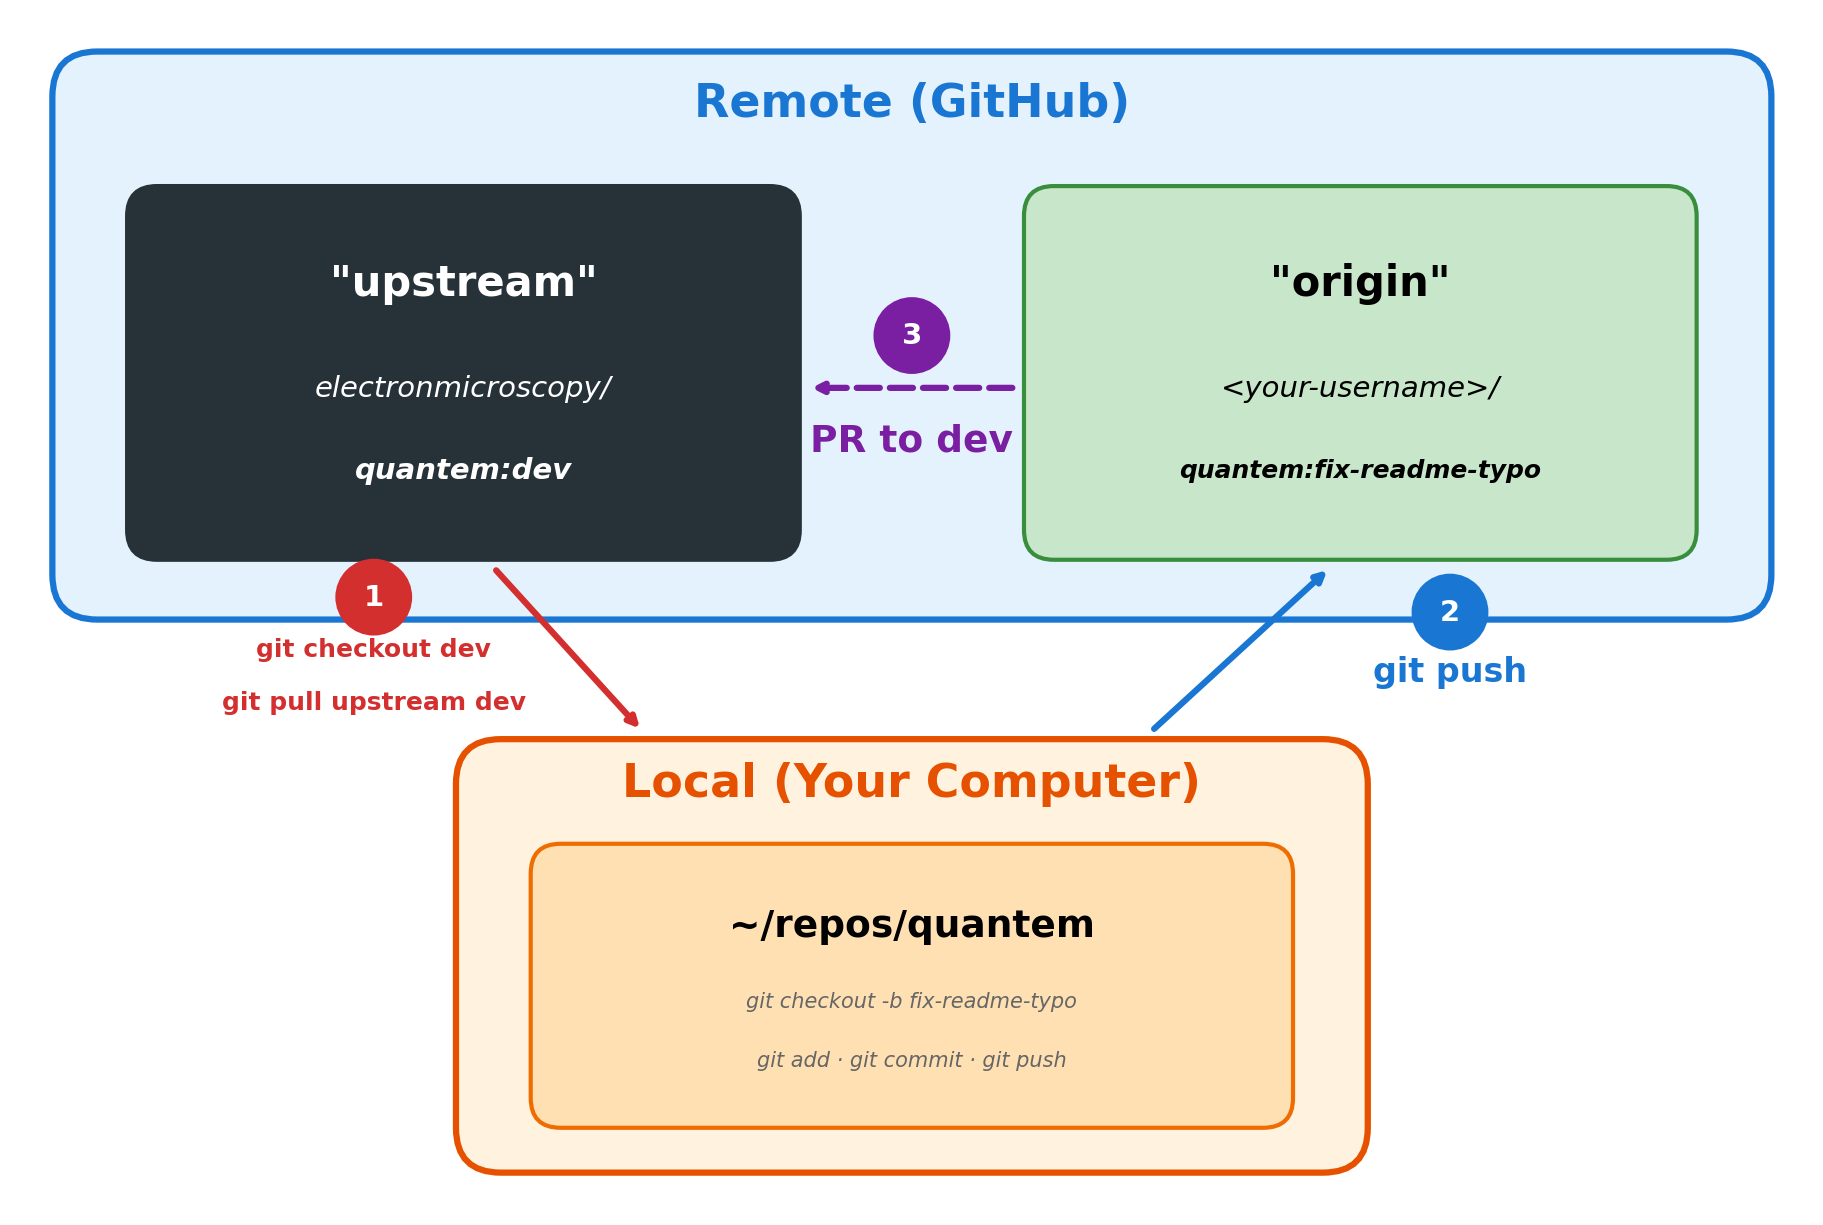
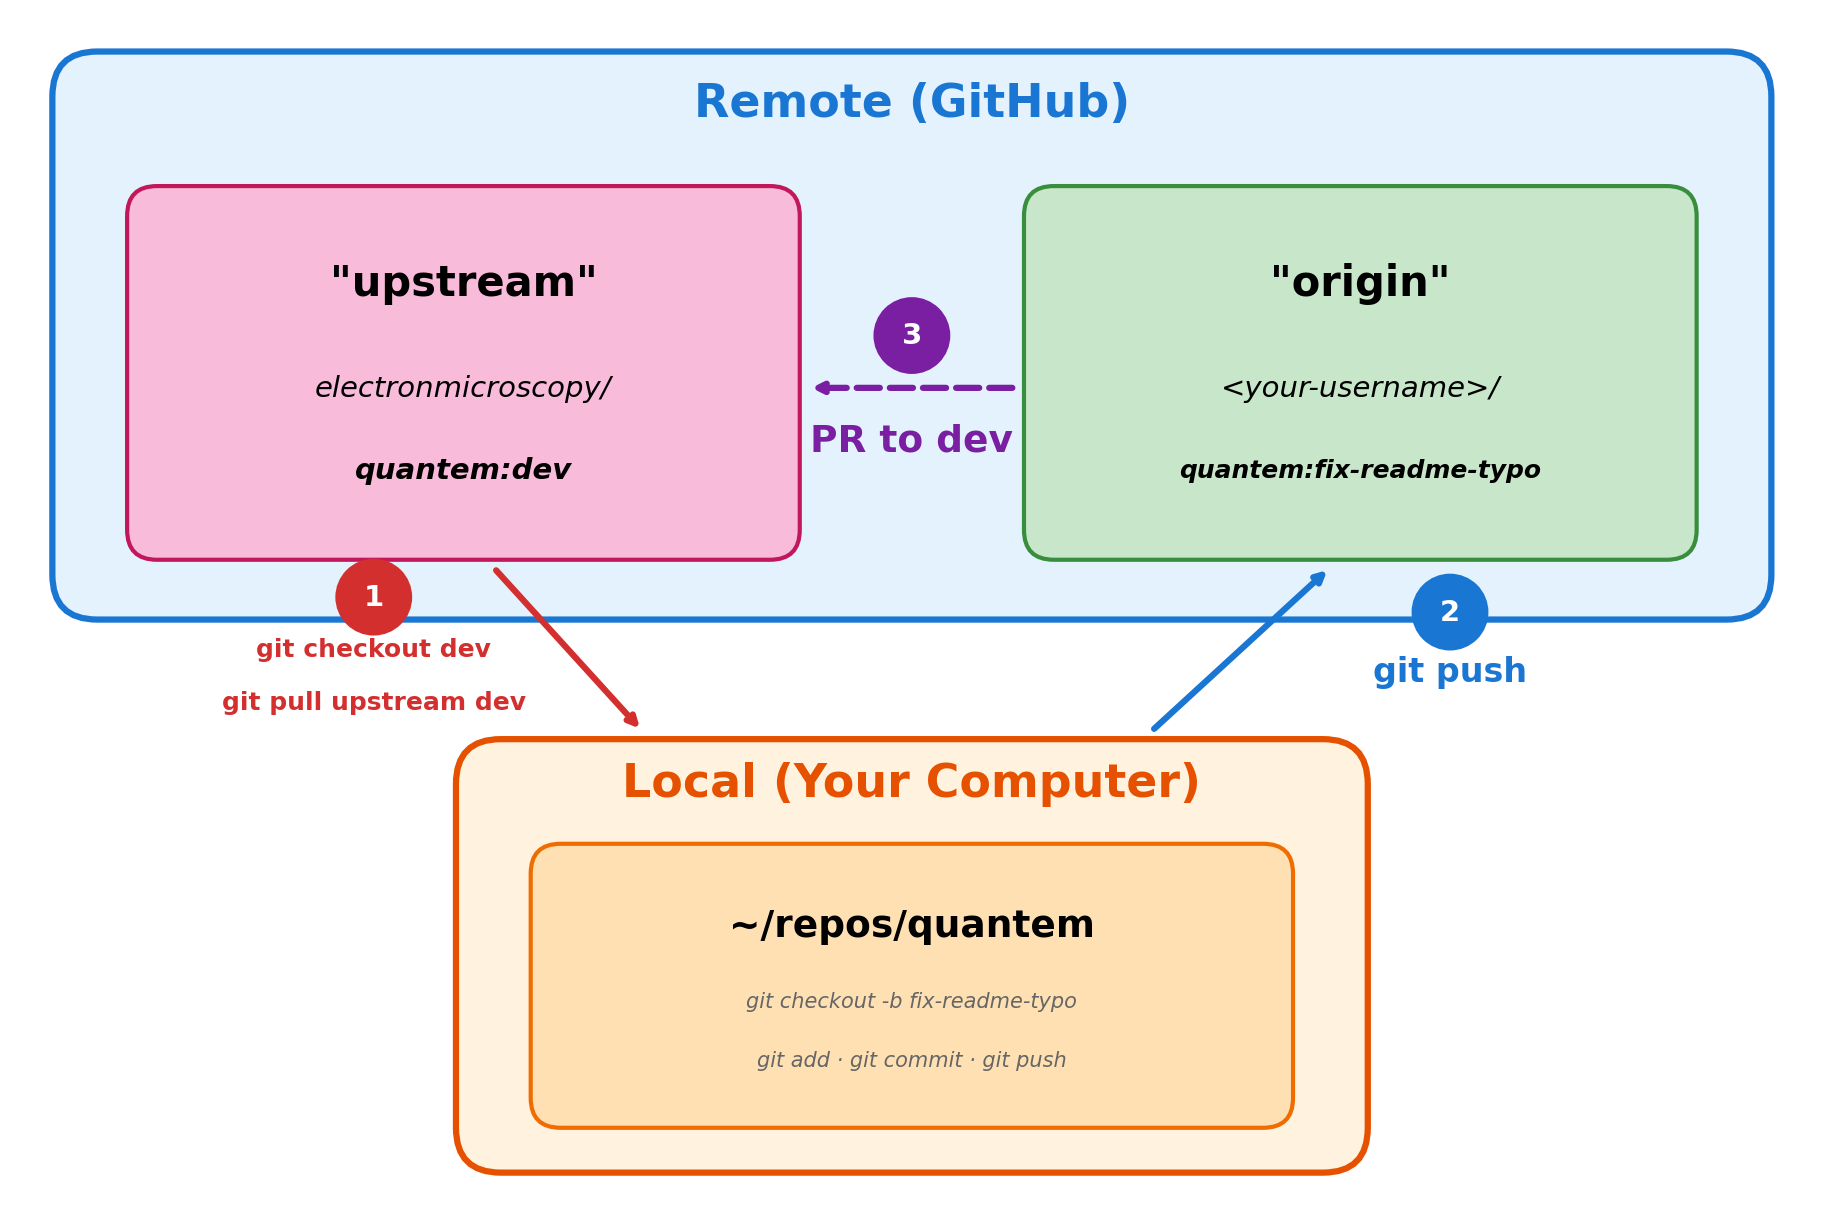
use magenta for upstream dev

Changed region(s): [[0.0614, 0.1241, 0.4608, 0.4653]]

diff --git a/git_workflow_diagrams.py b/git_workflow_diagrams.py
@@ -144,14 +144,14 @@ def case3_quick_fixes():
     ax.add_patch(local_box)
     ax.text(6, 2.85, 'Local (Your Computer)', ha='center', va='center', fontsize=22, fontweight='bold', color='#e65100')
 
-    # Upstream box - black background with white text to indicate dev is the main branch (higher weight)
+    # Upstream box - magenta to indicate dev is the main branch (higher weight)
     upstream_box = FancyBboxPatch((0.8, 4.4), 4.4, 2.4,
                                    boxstyle="round,pad=0.05,rounding_size=0.2",
-                                   facecolor='#263238', edgecolor='#263238', linewidth=2)
+                                   facecolor='#f8bbd9', edgecolor='#c2185b', linewidth=2)
     ax.add_patch(upstream_box)
-    ax.text(3, 6.2, '"upstream"', ha='center', va='center', fontsize=20, fontweight='bold', color='white')
-    ax.text(3, 5.5, 'electronmicroscopy/', ha='center', va='center', fontsize=14, style='italic', color='white')
-    ax.text(3, 4.95, 'quantem:dev', ha='center', va='center', fontsize=14, style='italic', fontweight='bold', color='white')
+    ax.text(3, 6.2, '"upstream"', ha='center', va='center', fontsize=20, fontweight='bold')
+    ax.text(3, 5.5, 'electronmicroscopy/', ha='center', va='center', fontsize=14, style='italic')
+    ax.text(3, 4.95, 'quantem:dev', ha='center', va='center', fontsize=14, style='italic', fontweight='bold')
 
     # Origin box (fork) - Bob's fork
     origin_box = FancyBboxPatch((6.8, 4.4), 4.4, 2.4,
